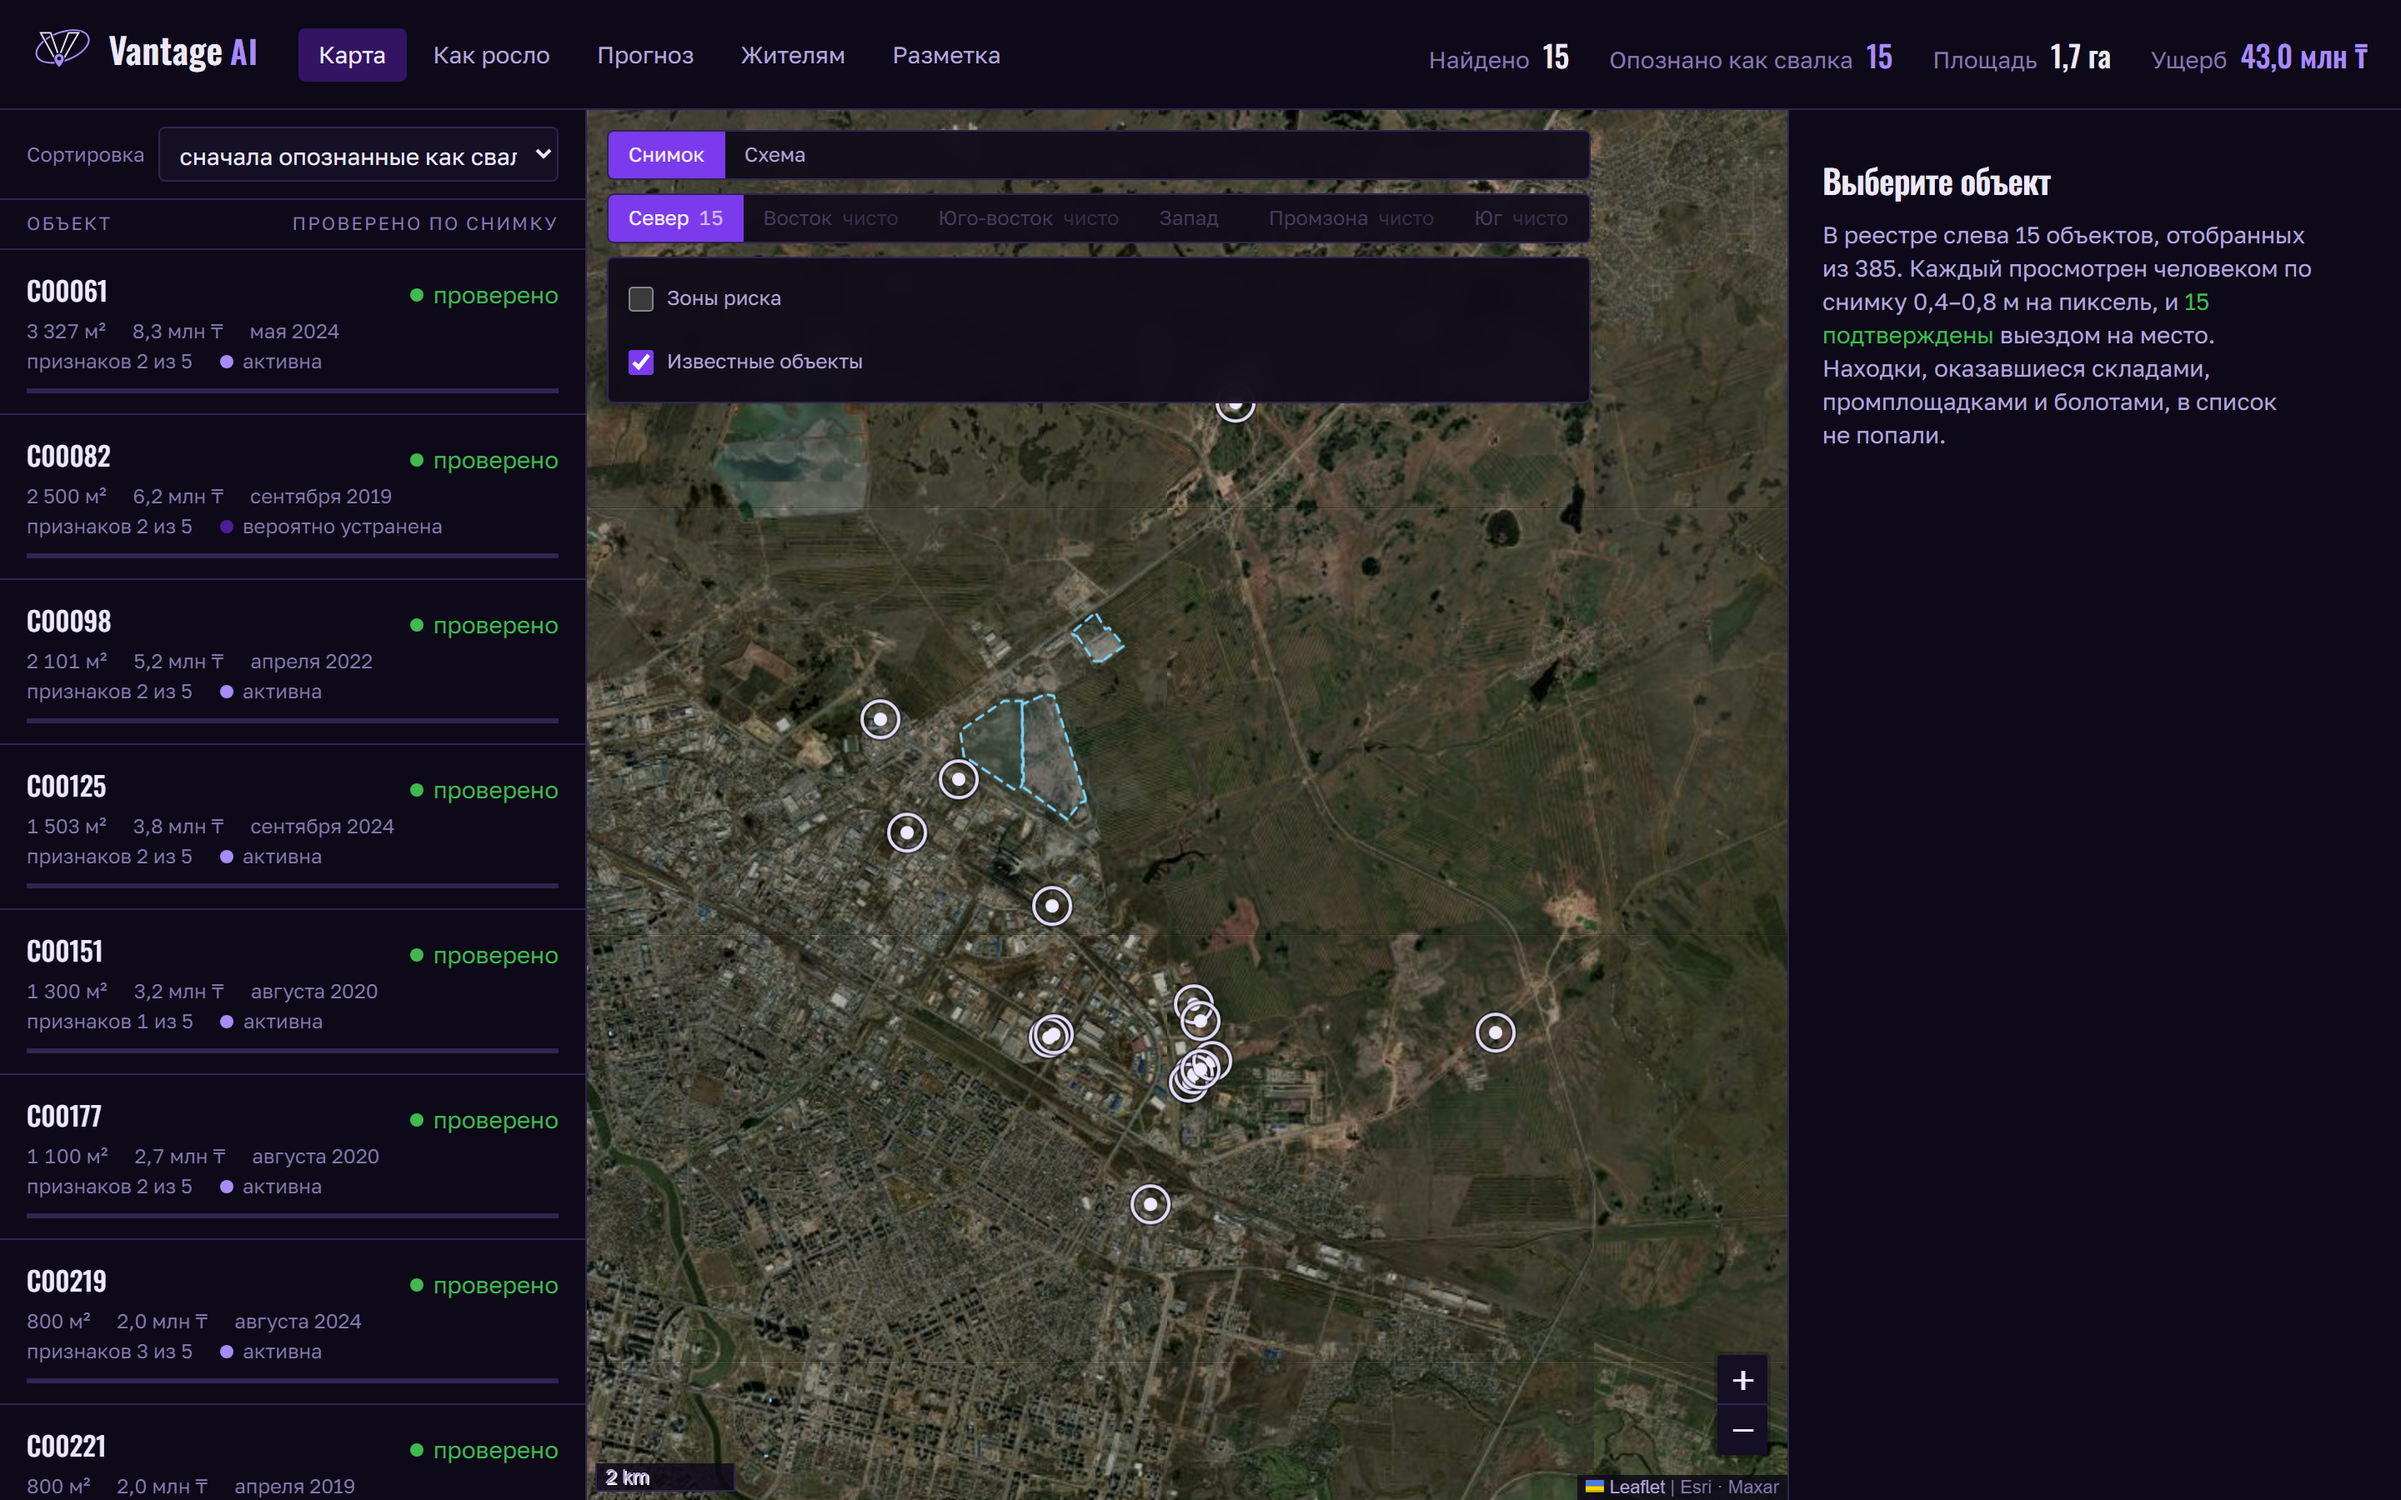
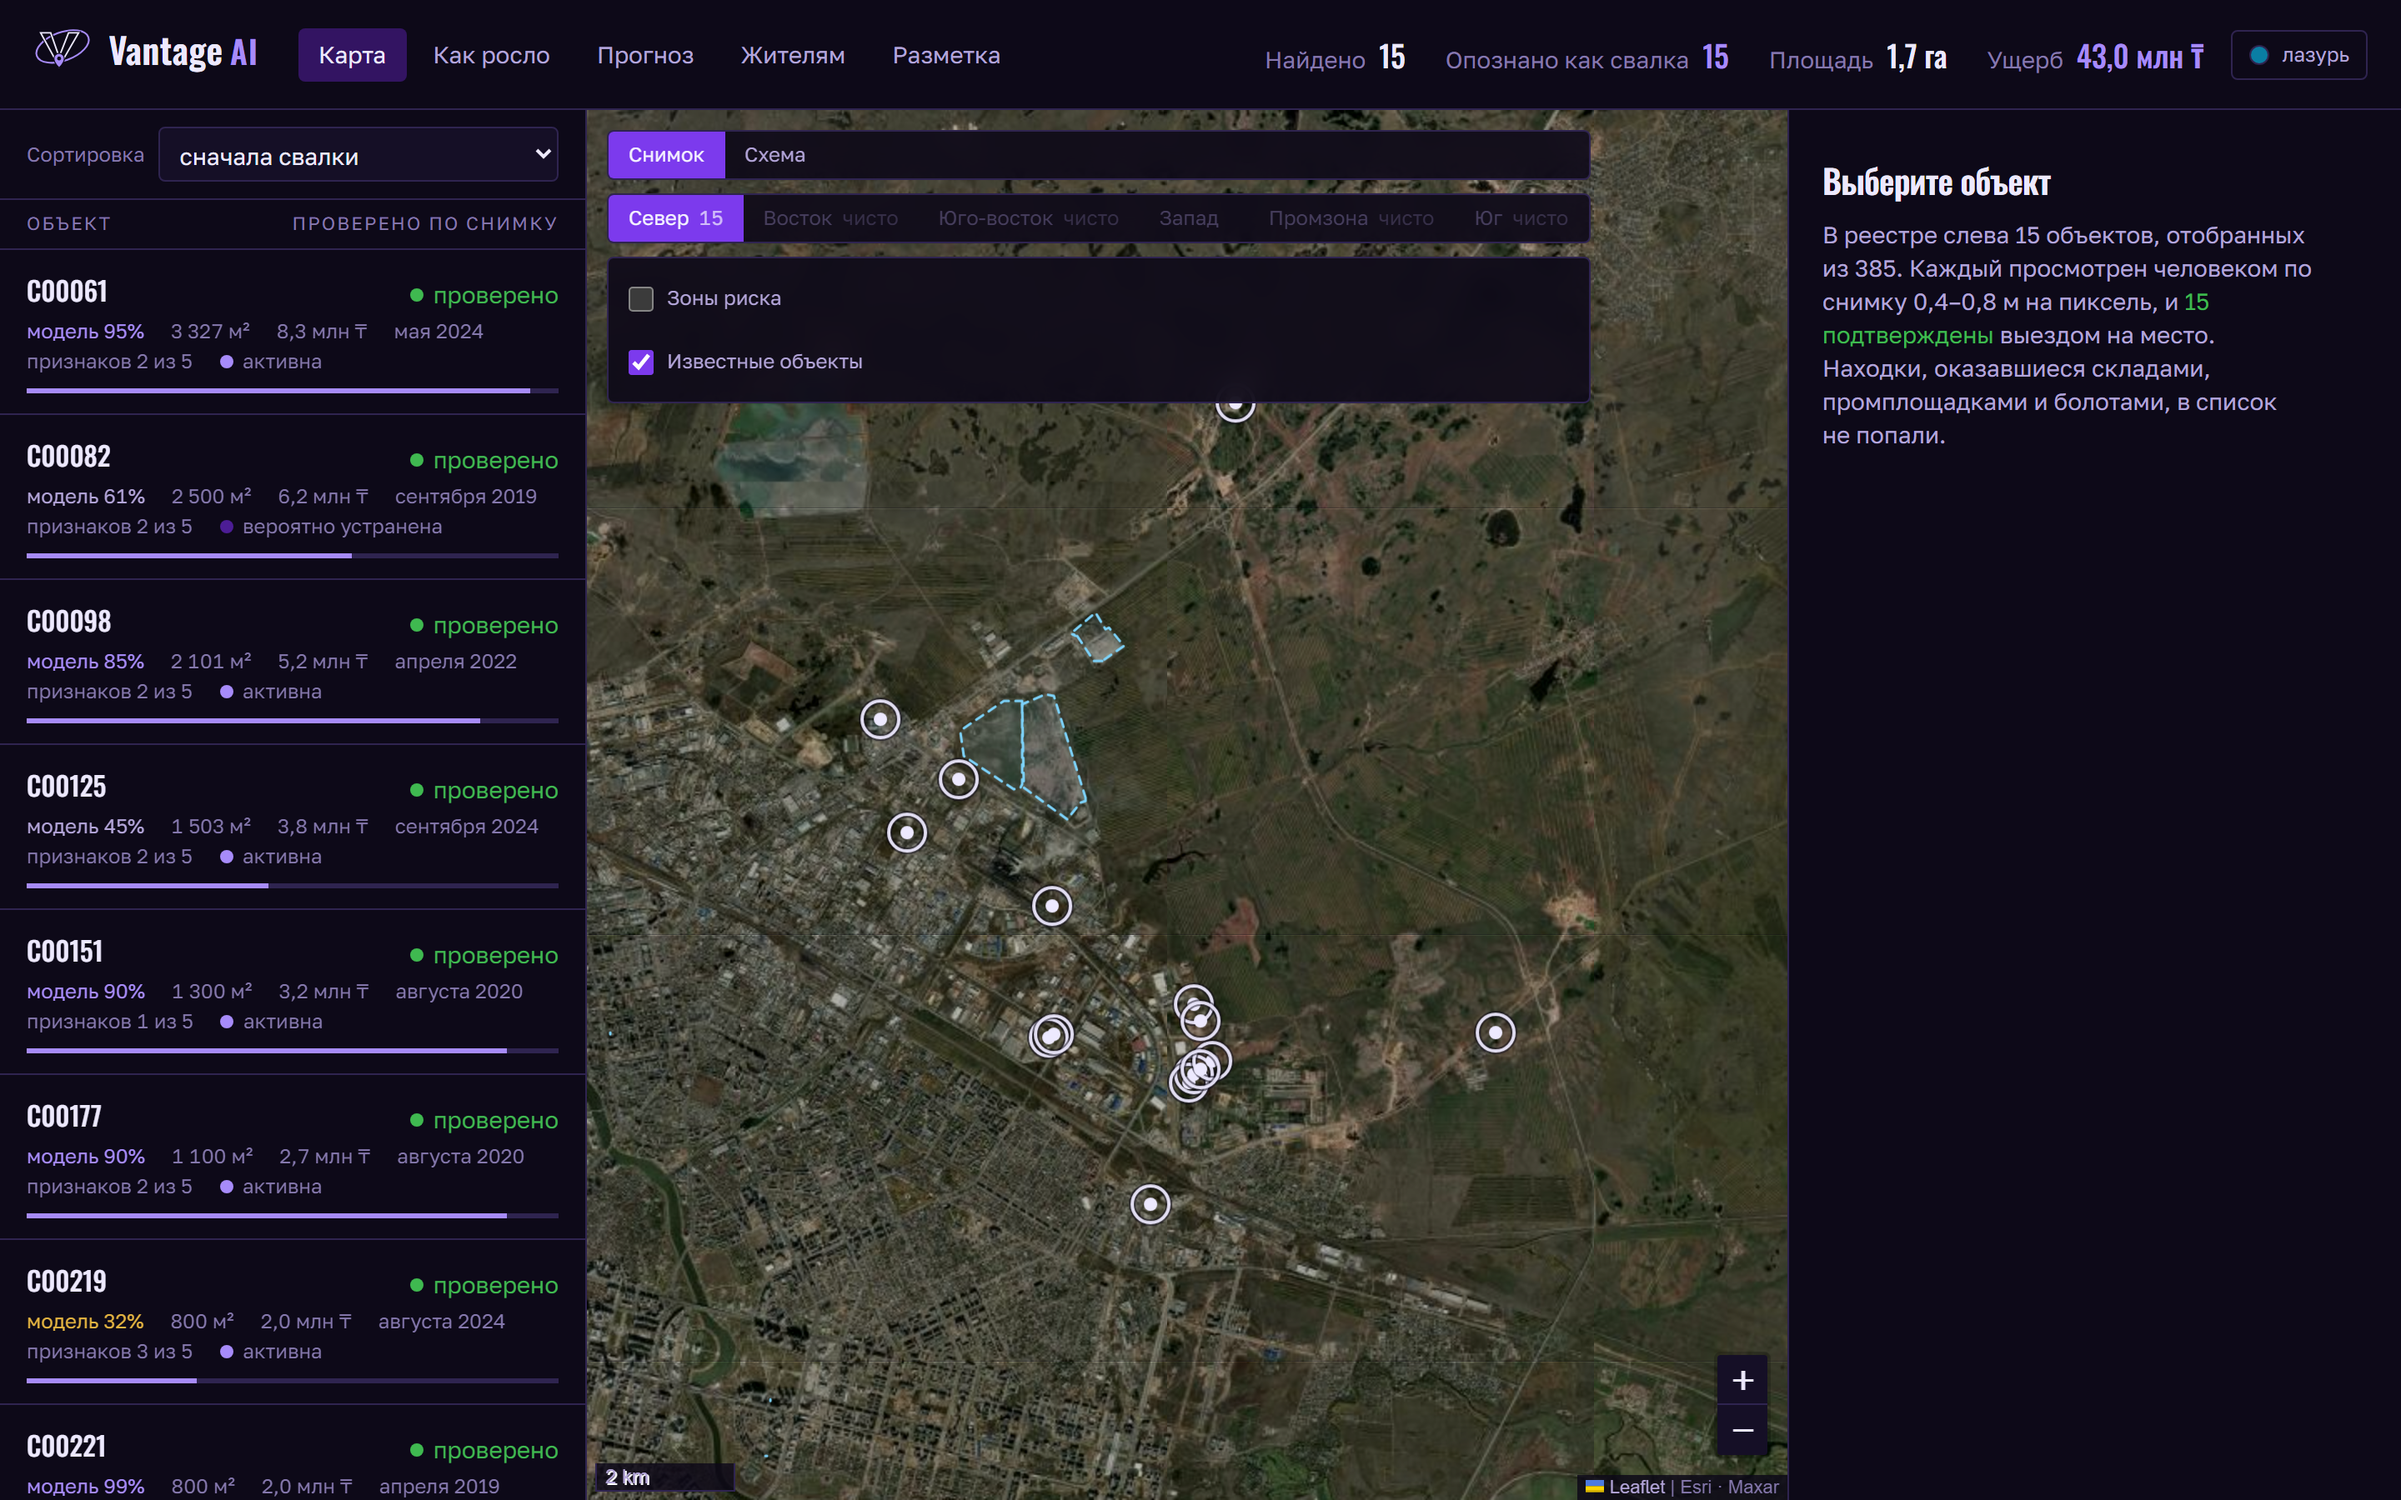
Подписи сортировки укорочены: выбранный пункт обрезался
Список стоит в колонке 22rem, и «сначала опознанные как свалка» обрезалось
на «как свал» — переключатель переставал показывать собственное состояние.

Картинки для деки пересняты под новый список.

diff --git a/web-next/src/MapApp.tsx b/web-next/src/MapApp.tsx
@@ -173,14 +173,18 @@ function humanDate(v: unknown) {
 
 type SortKey = 'visual' | 'probability' | 'evidence_score' | 'damage_p50' | 'area_m2' | 'break_date' | 'risk_of_cover';
 
+/* Подписи короткие намеренно. Список стоит в колонке шириной 22rem, и
+   «сначала опознанные как свалка» обрезалось на «как свал» — выбранный
+   пункт переставал читаться, то есть переключатель не показывал своё
+   же состояние. */
 const SORTS: [SortKey, string][] = [
-  ['visual', 'сначала опознанные как свалка'],
-  ['risk_of_cover', 'сначала подозрение на присыпку'],
-  ['probability', 'по вероятности модели'],
+  ['visual', 'сначала свалки'],
+  ['risk_of_cover', 'сначала присыпка'],
+  ['probability', 'по оценке модели'],
   ['evidence_score', 'по согласию признаков'],
   ['damage_p50', 'по ущербу'],
   ['area_m2', 'по площади'],
-  ['break_date', 'по дате возникновения'],
+  ['break_date', 'по дате'],
 ];
 
 export default function MapApp() {
